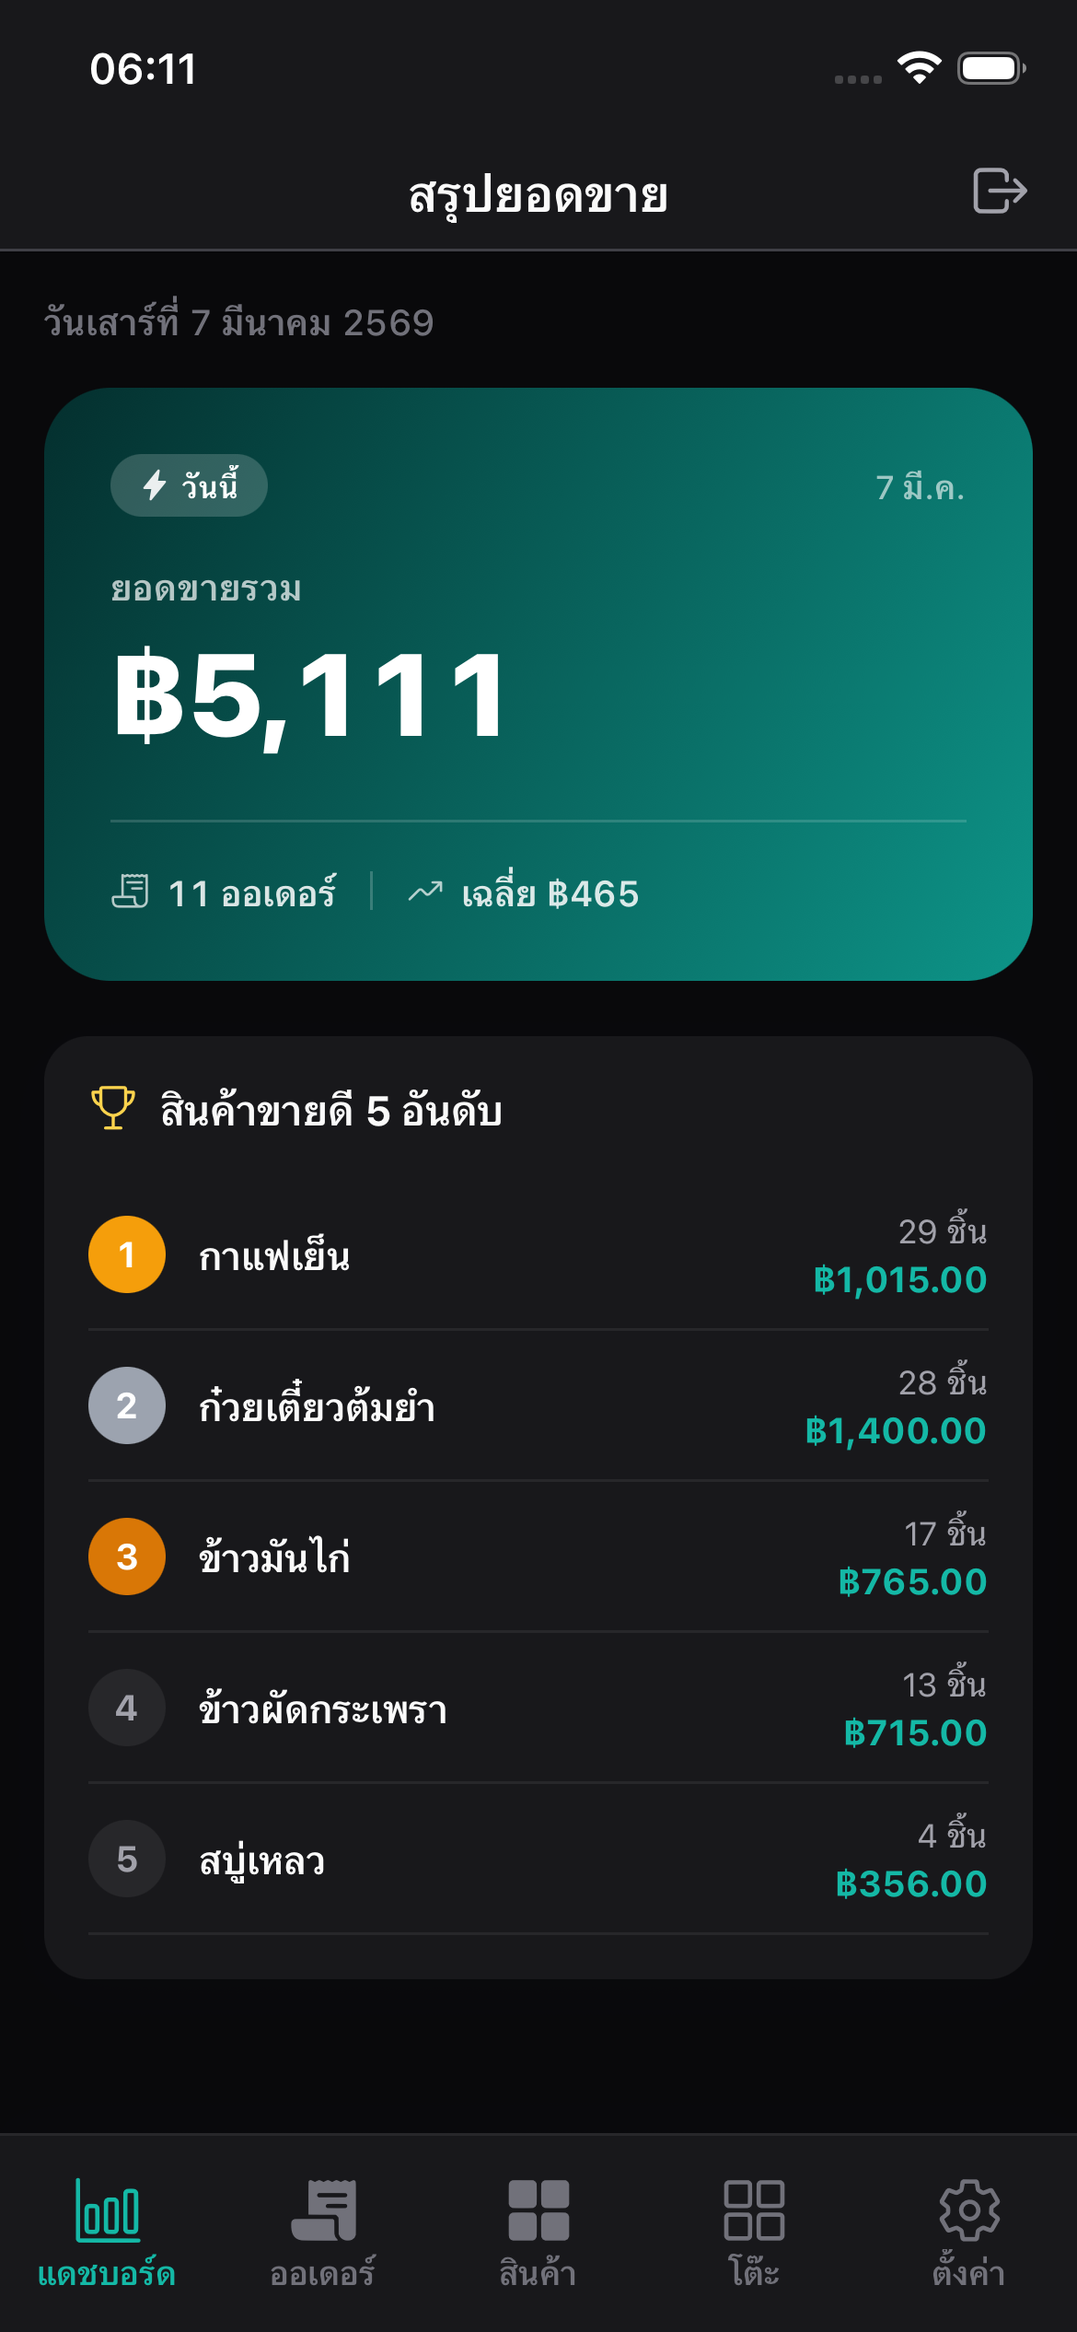
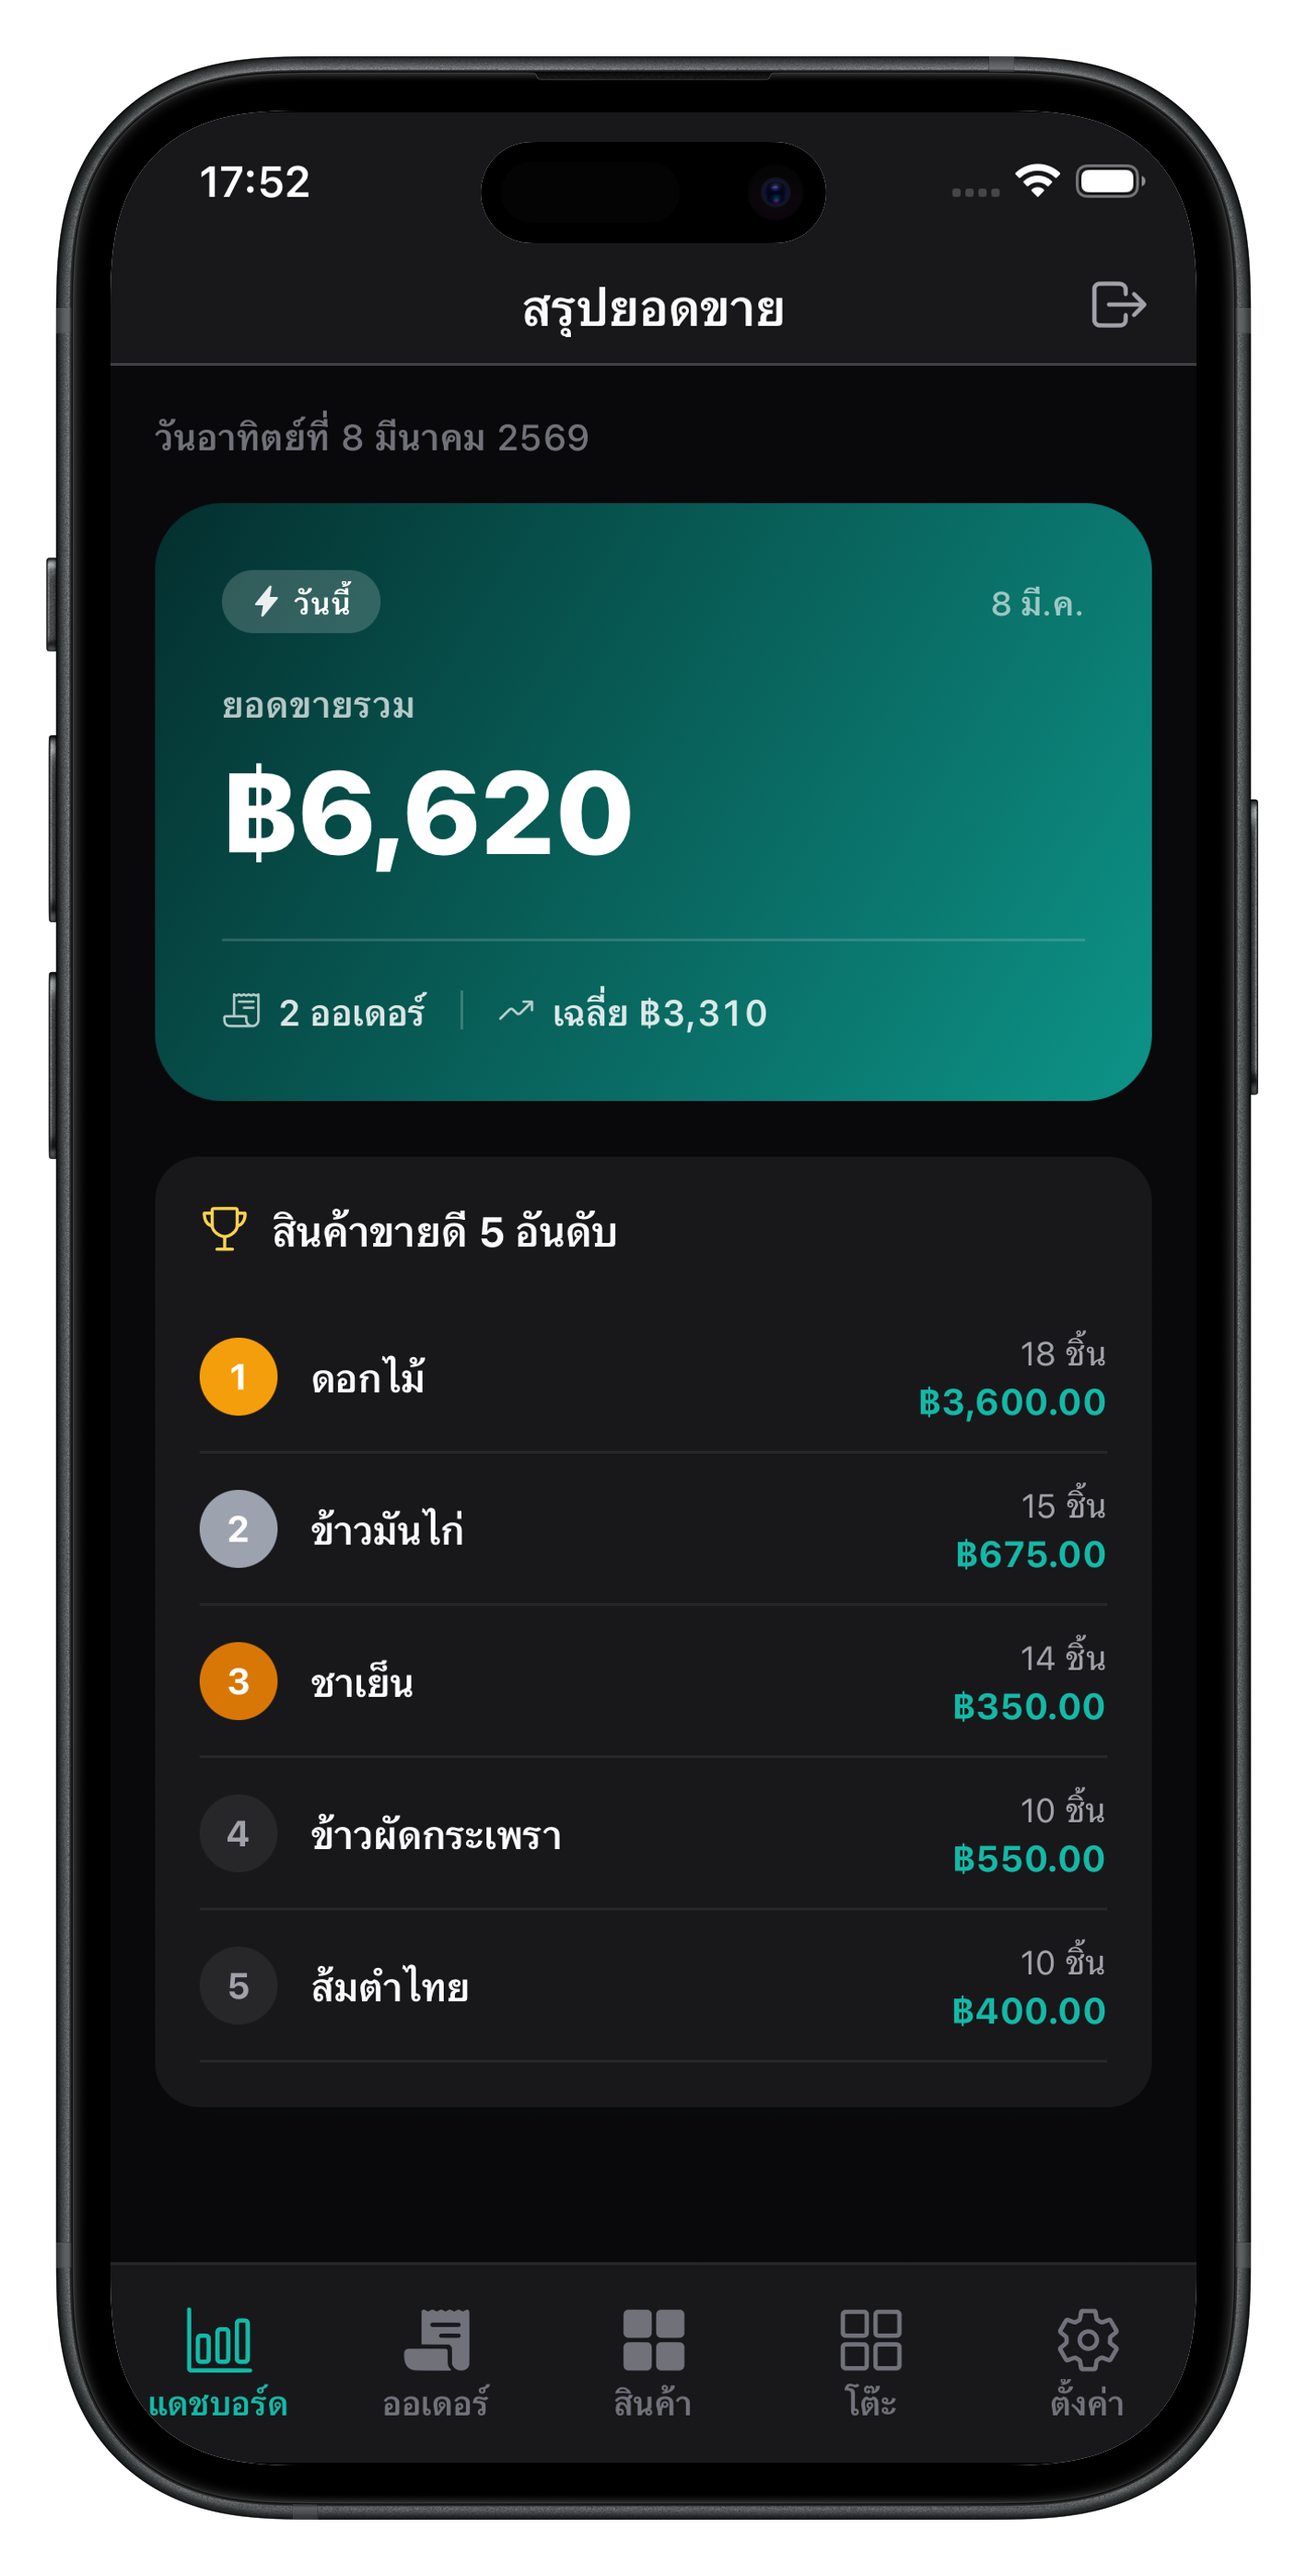
Replace portfolio screenshots with device bezel versions
- New screenshots with iPhone device frame (no more fake border)
- Remove scale/crop hack — images now display as-is with object-contain
- Remove products screenshot, now 4 screens: dashboard, orders, tables, settings

diff --git a/src/components/sections/PortfolioSection.tsx b/src/components/sections/PortfolioSection.tsx
@@ -12,7 +12,6 @@ interface PortfolioSectionProps {
 
 const screenshots = [
   { src: "/portfolio/qrforpay-dashboard.png", key: "dashboard" },
-  { src: "/portfolio/qrforpay-products.png", key: "products" },
   { src: "/portfolio/qrforpay-orders.png", key: "orders" },
   { src: "/portfolio/qrforpay-tables.png", key: "tables" },
   { src: "/portfolio/qrforpay-settings.png", key: "settings" },
@@ -79,7 +78,7 @@ export default function PortfolioSection({ lang }: PortfolioSectionProps) {
                 <div className="flex flex-col items-center md:w-1/3">
                   <div
                     ref={constraintsRef}
-                    className="relative w-[240px] h-[420px] sm:w-[280px] sm:h-[490px] rounded-[1.5rem] border-[3px] border-border/60 bg-[#1a1a1a] overflow-hidden shadow-2xl select-none cursor-grab active:cursor-grabbing"
+                    className="relative w-[220px] h-[450px] sm:w-[260px] sm:h-[530px] overflow-hidden select-none cursor-grab active:cursor-grabbing"
                   >
                     <AnimatePresence mode="wait" custom={direction}>
                       <motion.div
@@ -100,12 +99,8 @@ export default function PortfolioSection({ lang }: PortfolioSectionProps) {
                           src={screenshots[activeIdx].src}
                           alt={t.screens[activeIdx]}
                           fill
-                          className="object-cover object-center"
-                          style={{
-                            objectPosition: "center 8%",
-                            transform: "scale(1.12)",
-                          }}
-                          sizes="280px"
+                          className="object-contain"
+                          sizes="260px"
                           draggable={false}
                         />
                       </motion.div>

diff --git a/src/lib/content.ts b/src/lib/content.ts
@@ -117,7 +117,6 @@ export const content = {
       platform: "iOS / Android",
       screens: [
         "แดชบอร์ดยอดขาย",
-        "จัดการสินค้า",
         "รายการสั่งซื้อ",
         "จัดการโต๊ะ",
         "ตั้งค่าร้าน",
@@ -151,8 +150,7 @@ export const content = {
       platform: "iOS / Android",
       screens: [
         "Sales Dashboard",
-        "Product Management",
-        "Order History",
+        "Order Management",
         "Table Management",
         "Store Settings",
       ],
